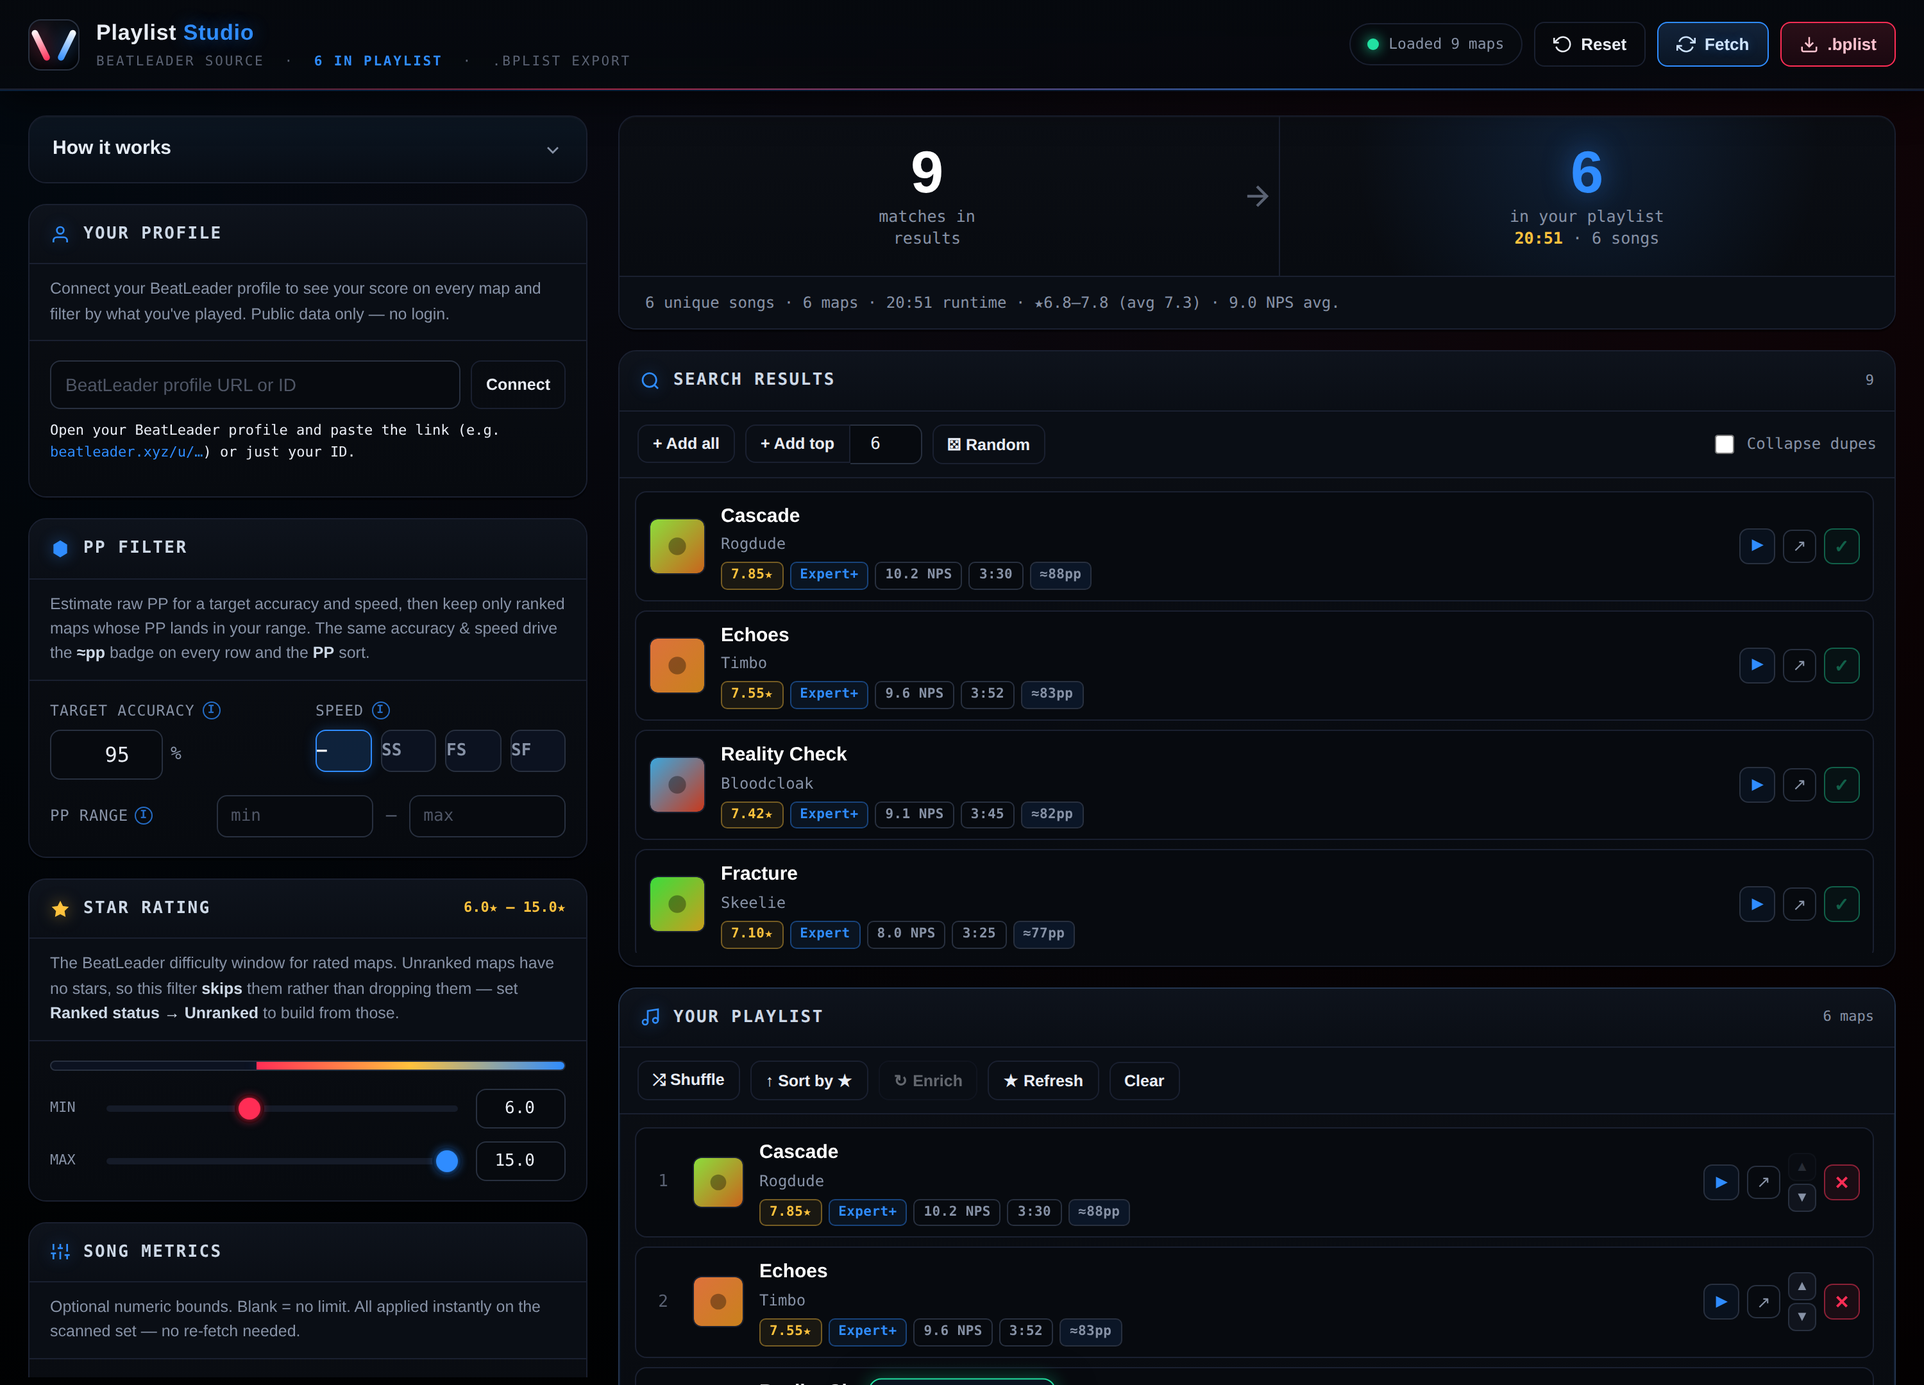
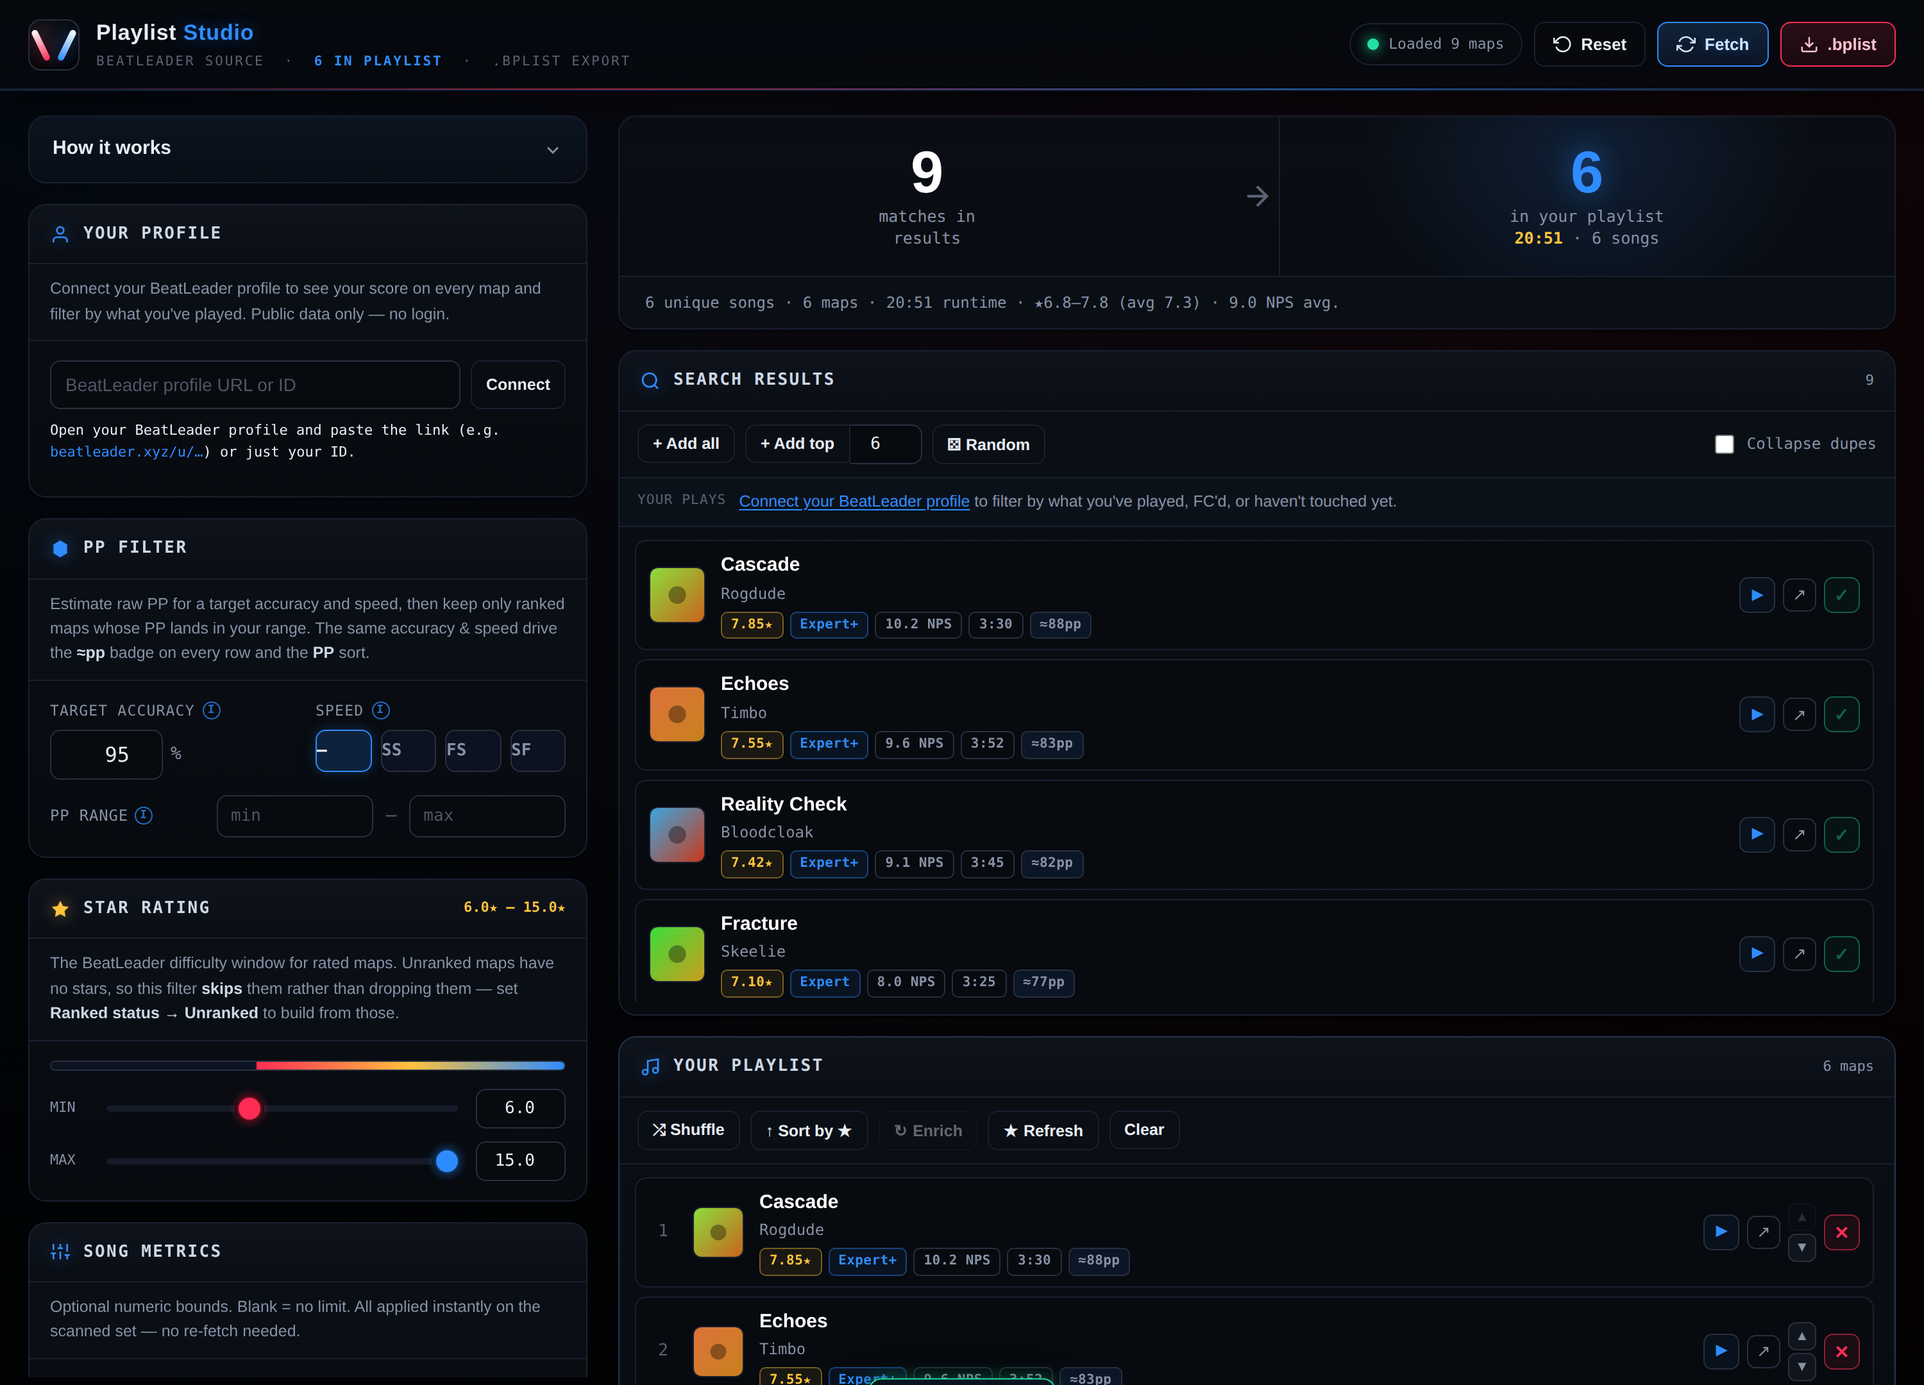
Made UI easier to use.

diff --git a/index.html b/index.html
@@ -447,6 +447,25 @@ select{cursor:pointer;appearance:none;
 .addtop input{width:56px;flex:none;padding:7px 8px;font-family:var(--mono);font-size:13px;text-align:center;border-top-left-radius:0;border-bottom-left-radius:0;border-left:none;}
 .mini-switch{display:inline-flex;align-items:center;gap:7px;cursor:pointer;font-size:12px;color:var(--muted);font-family:var(--mono);margin-left:auto;user-select:none;}
 .mini-switch input{width:15px;height:15px;accent-color:var(--blue);}
+/* Play-history filter bar (lives at the results, where people look) */
+.play-bar{display:flex;align-items:center;gap:10px;flex-wrap:wrap;padding:10px 14px;border-bottom:1px solid var(--border);background:#0b1119;}
+.play-bar-lbl{font-family:var(--mono);font-size:10.5px;letter-spacing:.6px;text-transform:uppercase;color:var(--muted-2);flex:none;}
+.play-chips{display:flex;gap:6px;flex-wrap:wrap;}
+.play-chip{font-family:var(--mono);font-size:12px;color:var(--muted);background:#0c1220;border:1px solid var(--border-2);border-radius:7px;padding:5px 11px;cursor:pointer;transition:.13s;}
+.play-chip:hover{border-color:var(--blue);color:#fff;}
+.play-chip.active{background:rgba(47,140,255,.18);border-color:var(--blue);color:#fff;box-shadow:0 0 9px rgba(47,140,255,.22);}
+.play-bar-hint{font-size:12.5px;color:var(--muted);line-height:1.4;}
+.linklike{background:none;border:none;color:var(--blue);cursor:pointer;font:inherit;padding:0;text-decoration:underline;text-underline-offset:2px;}
+.linklike:hover{color:#fff;}
+.play-bar.connected .play-bar-hint{display:none;}
+.play-bar:not(.connected) .play-chips{display:none;}
+/* Maps-to-scan quick picks */
+.scan-chips{display:flex;gap:6px;flex-wrap:wrap;margin-top:10px;}
+.scan-chips button{font-family:var(--mono);font-size:12px;color:var(--muted);background:#0c1220;border:1px solid var(--border-2);border-radius:6px;padding:5px 10px;cursor:pointer;transition:.13s;}
+.scan-chips button:hover{border-color:var(--blue);color:#fff;}
+.scan-chips button.active{background:rgba(47,140,255,.16);border-color:var(--blue);color:#fff;}
+.scan-hint{margin:8px 0 0;font-size:11.5px;color:var(--muted-2);line-height:1.45;min-height:1px;}
+.scan-hint.warn{color:var(--amber);}
 
 /* ---------- Rows (results + basket) ---------- */
 .list-body{padding:10px 12px;}
@@ -777,9 +796,18 @@ a.credit .c3{font-family:var(--mono);font-size:9.5px;color:var(--red);}
               <option value="desc" selected>High → Low</option>
               <option value="asc">Low → High</option>
             </select></div>
-          <div class="field"><label class="field-label">Max maps to scan <span class="info" data-tip="How many maps to pull from BeatLeader before filtering in your browser. Higher = more thorough but more API pages (slower). 300 is a good default; raise it for wide star ranges.">i</span></label>
-            <input type="number" id="fMaxScan" min="20" max="5000" step="20" value="300" /></div>
+          <div class="field"><label class="field-label">Maps to scan <span class="info" data-tip="How many maps to pull from BeatLeader before filtering in your browser. Higher = more thorough (finds more matches, especially after filtering by your plays) but takes longer — each 100 maps is another API page. 300 is a fast default; go bigger for wide searches or 'unplayed' hunts.">i</span></label>
+            <input type="number" id="fMaxScan" min="20" max="20000" step="20" value="300" /></div>
         </div>
+        <div class="scan-chips" id="scanChips">
+          <button type="button" data-scan="300">300</button>
+          <button type="button" data-scan="1000">1k</button>
+          <button type="button" data-scan="2500">2.5k</button>
+          <button type="button" data-scan="5000">5k</button>
+          <button type="button" data-scan="10000">10k</button>
+          <button type="button" data-scan="20000">Max</button>
+        </div>
+        <p class="scan-hint" id="scanHint"></p>
 
         <div class="divider"></div>
         <div class="field"><label class="field-label">Connection <span class="info" data-tip="BeatLeader blocks direct browser requests (no CORS). Auto tries a direct call first (~4s), then races a pool of relays. Relay skips straight to the race. Direct only works if you host this on a BeatLeader-allowlisted origin. Dead/slow relays are dropped automatically.">i</span></label>
@@ -852,6 +880,18 @@ a.credit .c3{font-family:var(--mono);font-size:9.5px;color:var(--red);}
         </div>
         <button class="ghost sm" id="addRandomBtn" disabled title="Add a random selection from results (uses the number in Add top)">⚄ Random</button>
         <label class="mini-switch" title="Show only one entry per song (hide duplicate difficulties)"><input type="checkbox" id="collapseSongs" /><span>Collapse dupes</span></label>
+      </div>
+      <div class="play-bar" id="playFilterBar">
+        <span class="play-bar-lbl">Your plays</span>
+        <div class="play-chips" id="playChips">
+          <button type="button" class="play-chip active" data-ps="any">All</button>
+          <button type="button" class="play-chip" data-ps="unplayed" title="Only maps you haven't played yet">Unplayed</button>
+          <button type="button" class="play-chip" data-ps="played" title="Only maps you've played">Played</button>
+          <button type="button" class="play-chip" data-ps="fc" title="Only maps you've full-combo'd">FC'd</button>
+          <button type="button" class="play-chip" data-ps="nofc" title="Played but not full-combo'd">Not FC</button>
+          <button type="button" class="play-chip" data-ps="nearfc" title="Played, no FC, but you were close">Near-FC</button>
+        </div>
+        <span class="play-bar-hint" id="playBarHint"><button type="button" class="linklike" id="playConnectJump">Connect your BeatLeader profile</button> to filter by what you've played, FC'd, or haven't touched yet.</span>
       </div>
       <div class="panel-body list-body">
         <div class="song-list" id="resultList">
@@ -1625,7 +1665,7 @@ window.PP = (function () {
    Connection: BeatLeader sends no CORS headers, so direct
    browser fetch() fails. We try direct first (Auto), then race
    a pool of relays (first valid wins, pinned for the scan),
-   with per-request timeouts. A custom/local relay is supported.
+   with per-request timeouts. A custom relay URL is supported.
    ============================================================ */
 (function () {
   'use strict';
@@ -1670,6 +1710,7 @@ window.PP = (function () {
    'previewModal','previewTitle','previewStatus','previewFrame','previewAudio','previewBeatSaver','previewViewer','previewClose','previewClose2',
    'ppCalc','ppCalcStars','ppCalcNote','ppCalcGrid','ppAccInput','ppAccChips','ppMods','ppResult','ppValue','ppBreakdown','ppReference',
    'ppPanel','ppFilterAcc','ppFilterMods','ppMin','ppMax','ppFilterState',
+   'introPanel','playFilterBar','playChips','playBarHint','playConnectJump','scanChips','scanHint',
    'toast','tipbox'
   ].forEach(function (id) { el[id] = $(id); });
 
@@ -1696,7 +1737,7 @@ window.PP = (function () {
     var mapperTerms = el.fMapper.value.split(',').map(function (m) { return m.trim().toLowerCase(); }).filter(Boolean);
     return {
       type: el.fType.value, sort: el.fSort.value, order: el.fOrder.value,
-      maxScan: clamp(num(el.fMaxScan, 300), 20, 5000),
+      maxScan: clamp(num(el.fMaxScan, 300), 20, 20000),
       starMin: clamp(num(el.starMinNum, 0), 0, 15), starMax: clamp(num(el.starMaxNum, 15), 0, 15),
       mapperTerms: mapperTerms, search: el.fSearch.value.trim(), modes: checkedValues('modeChips'),
       diffEnabled: el.diffEnable.checked, diffs: checkedValues('diffChips'),
@@ -1884,6 +1925,7 @@ window.PP = (function () {
     }
     state.filtered = out;
     if (el.ppFilterState) el.ppFilterState.textContent = ppFilterSummary();
+    renderPlayBar();
     renderAll();
     updateStale();
   }
@@ -2014,8 +2056,19 @@ window.PP = (function () {
     var rows = displayResults(), list = el.resultList;
     el.resultCount.textContent = rows.length ? rows.length + (collapseOn() && rows.length !== state.filtered.length ? ' songs' : '') : '';
     if (!rows.length) {
-      list.innerHTML = '<div class="empty"><div class="empty-ic">◇</div>' +
-        (state.raw.length ? '<p><b>No matches.</b></p><p>Loosen your filters or raise "Max maps to scan".</p>' : '<p><b>No results yet.</b></p><p>Set your filters and hit <b>Fetch from BeatLeader</b>.</p>') + '</div>';
+      var msg;
+      if (!state.raw.length) {
+        msg = '<p><b>No results yet.</b></p><p>Set your filters and hit <b>Fetch from BeatLeader</b>.</p>';
+      } else {
+        var why = [];
+        if (state.player && el.playStatus.value !== 'any') why.push('your <b>“' + playStatusLabel(el.playStatus.value) + '”</b> play filter');
+        if (num(el.ppMin, null) != null || num(el.ppMax, null) != null) why.push('your <b>PP range</b>');
+        var tail = why.length
+          ? 'Nothing in this batch matches ' + why.join(' and ') + '. Try raising <b>Maps to scan</b>' + (why.length === 1 && state.player && el.playStatus.value !== 'any' ? ' (an “unplayed” hunt often needs a bigger scan)' : '') + ', or loosen that filter.'
+          : 'Loosen your filters or raise <b>Maps to scan</b> to pull more.';
+        msg = '<p><b>No matches.</b></p><p>' + tail + '</p>';
+      }
+      list.innerHTML = '<div class="empty"><div class="empty-ic">◇</div>' + msg + '</div>';
       return;
     }
     var MAX = 400, frag = '';
@@ -2503,13 +2556,38 @@ window.PP = (function () {
   function savePlayerCache() { try { localStorage.setItem(PLAYER_KEY, JSON.stringify({ player: state.player, scores: state.scores })); } catch (e) {} }
   function loadPlayerCache() { try { var s = JSON.parse(localStorage.getItem(PLAYER_KEY) || 'null'); if (s && s.player) { state.player = s.player; state.scores = s.scores || {}; } } catch (e) {} }
   function renderProfile() {
-    if (!state.player) { el.profileConnect.hidden = false; el.profileCard.hidden = true; setProfileState(''); return; }
+    if (!state.player) { el.profileConnect.hidden = false; el.profileCard.hidden = true; setProfileState(''); renderPlayBar(); return; }
     el.profileConnect.hidden = true; el.profileCard.hidden = false;
     if (state.player.avatar) { el.pcAvatar.src = state.player.avatar; el.pcAvatar.style.display = ''; } else { el.pcAvatar.style.display = 'none'; }
     el.pcName.textContent = state.player.name;
     var n = Object.keys(state.scores).length;
     el.pcStats.textContent = '#' + (state.player.rank || '—') + ' global · ' + Math.round(state.player.pp || 0) + 'pp · ' + n + ' scores loaded';
     setProfileState(state.player.name);
+    renderPlayBar();
+  }
+  // The play-history filter surfaced at the results (connected -> chips, else a
+  // prompt to connect). Keeps the chip in sync with the profile-panel dropdown.
+  function updateScanHint() {
+    var v = clamp(num(el.fMaxScan, 300), 20, 20000);
+    Array.prototype.forEach.call(el.scanChips.querySelectorAll('button'), function (b) { b.classList.toggle('active', parseInt(b.dataset.scan, 10) === v); });
+    var pages = Math.ceil(v / PAGE_SIZE), big = v > 3000;
+    el.scanHint.textContent = '≈ ' + pages + ' API page' + (pages === 1 ? '' : 's') + (big ? ' · big scans take a while and lean on the public relays' : ' · fast');
+    el.scanHint.classList.toggle('warn', big);
+  }
+  function playStatusLabel(v) {
+    return { any: 'Any', unplayed: 'Unplayed', played: 'Played', fc: "Full-combo'd", nofc: 'Played, not FC', nearfc: 'Near-miss FC' }[v] || v;
+  }
+  function focusProfileConnect() {
+    if (el.profilePanel && el.profilePanel.scrollIntoView) el.profilePanel.scrollIntoView({ behavior: 'smooth', block: 'center' });
+    if (el.playerInput) { try { el.playerInput.focus({ preventScroll: true }); } catch (e) { el.playerInput.focus(); } }
+  }
+  function renderPlayBar() {
+    var connected = !!state.player;
+    el.playFilterBar.classList.toggle('connected', connected);
+    var ps = el.playStatus ? el.playStatus.value : 'any';
+    Array.prototype.forEach.call(el.playChips.querySelectorAll('.play-chip'), function (b) {
+      b.classList.toggle('active', b.dataset.ps === ps);
+    });
   }
   function connectPlayer() {
     var id = parsePlayerId(el.playerInput.value);
@@ -2521,7 +2599,7 @@ window.PP = (function () {
           pp: p.pp || 0, rank: p.rank || 0, countryRank: p.countryRank || 0,
           total: (p.scoreStats && p.scoreStats.totalPlayCount) || 0, ranked: (p.scoreStats && p.scoreStats.rankedPlayCount) || 0, syncedMaxTime: 0 };
         state.scores = {}; renderProfile(); savePlayerCache();
-        toast('Connected as ' + state.player.name + '. Syncing your scores…', 'ok');
+        toast('Connected as ' + state.player.name + '. Now use the "Your plays" filter above the results to hide what you\'ve played.', 'ok');
         return syncScores(false);
       })
       .catch(function () { setProfileState('Not found'); toast("Couldn't find that BeatLeader profile — check the URL or ID.", 'err'); })
@@ -2564,9 +2642,10 @@ window.PP = (function () {
     return step().then(function () {
       state.player.syncedMaxTime = newMax; el.syncBar.style.width = '100%';
       savePlayerCache(); renderProfile(); applyClientFilters();
-      toast(incremental ? (got ? 'Refreshed — ' + got + ' new/updated score' + (got === 1 ? '' : 's') + '.' : 'Already up to date.') : 'Synced ' + Object.keys(state.scores).length + ' scores.', 'ok');
+      var tot = Object.keys(state.scores).length;
+      toast(incremental ? (got ? 'Refreshed — ' + got + ' new/updated score' + (got === 1 ? '' : 's') + '.' : 'Already up to date.') : 'Synced ' + tot + ' score' + (tot === 1 ? '' : 's') + '.', 'ok');
     }).catch(function (e) {
-      toast('Score sync failed' + (e && e.message ? ' (' + e.message + ')' : '') + '. Try again, or use the local relay for big syncs.', 'err');
+      toast('Score sync failed' + (e && e.message ? ' (' + e.message + ')' : '') + '. Give it a moment and hit ⟳ Sync again.', 'err');
     }).then(function () {
       state.syncing = false; el.syncBtn.disabled = false;
       setTimeout(function () { el.syncProgress.hidden = true; el.syncBar.style.width = '0%'; }, 800);
@@ -2692,6 +2771,17 @@ window.PP = (function () {
     el.playStatus.addEventListener('change', applyClientFilters);
     el.accMax.addEventListener('input', applyClientFilters);
     document.querySelectorAll('#quickLists [data-quick]').forEach(function (btn) { btn.addEventListener('click', function () { applyQuickList(this.dataset.quick); }); });
+    // Results-side play-history chips (mirror the profile dropdown)
+    el.playChips.addEventListener('click', function (e) {
+      var b = e.target.closest('.play-chip'); if (!b) return;
+      if (!state.player) { focusProfileConnect(); return; }
+      el.playStatus.value = b.dataset.ps; if (b.dataset.ps !== 'played') el.accMax.value = '';
+      applyClientFilters();
+    });
+    el.playConnectJump.addEventListener('click', focusProfileConnect);
+    // Maps-to-scan quick picks + live hint
+    el.scanChips.addEventListener('click', function (e) { var b = e.target.closest('button[data-scan]'); if (b) { el.fMaxScan.value = b.dataset.scan; updateScanHint(); if (state.raw.length) updateStale(); } });
+    el.fMaxScan.addEventListener('input', updateScanHint);
 
     // star
     el.starMin.addEventListener('input', function () { setStar('min', parseFloat(el.starMin.value)); });
@@ -2707,7 +2797,7 @@ window.PP = (function () {
     el.useCustomImage.addEventListener('change', function () { el.customFileField.hidden = !el.useCustomImage.checked; if (!el.useCustomImage.checked) { state.usingCustom = false; updateCover(true); renderExport(); } });
     el.customImageInput.addEventListener('change', function (e) { var file = e.target.files && e.target.files[0]; if (file) handleCustomImage(file); });
 
-    initTooltips(); populatePresets(); populatePlaylists(); loadPlayerCache(); renderProfile(); refreshStarUI(); restoreSession(); updateCover(); renderAll(); setStatus('Ready', 'on');
+    initTooltips(); populatePresets(); populatePlaylists(); loadPlayerCache(); renderProfile(); refreshStarUI(); restoreSession(); updateCover(); renderAll(); updateScanHint(); setStatus('Ready', 'on');
   }
 
   document.addEventListener('DOMContentLoaded', init);

diff --git a/README.md b/README.md
@@ -21,6 +21,7 @@ Playlist Studio turns BeatLeader's live map data into curated Beat Saber playlis
 - **NPS, duration and BPM** bounds
 - **PP range** — keep only ranked maps worth a target PP at your accuracy and speed (see below)
 - **Rating-focus sort** — Stars, Tech, Acc, Pass, NPS, Duration, BPM, or **PP at your target accuracy**
+- **Adjustable scan depth** — pull anywhere from 300 up to 20,000 maps per fetch (quick-pick chips: 300 / 1k / 2.5k / 5k / 10k / Max). Bigger scans dig deeper for matches — handy for wide star ranges or "unplayed" hunts — at the cost of a longer fetch
 - Live client-side filtering: tweak a value and the match count updates instantly, no re-fetch
 - Press **Enter** in any filter to fetch; the Fetch button flags when your filters have drifted from your last pull
 
@@ -35,7 +36,8 @@ Playlist Studio turns BeatLeader's live map data into curated Beat Saber playlis
 ### Your scores & history (connect a BeatLeader profile)
 Paste your BeatLeader profile URL or ID and Playlist Studio syncs your play history — public data, no login — so you can see and build around what you've actually played:
 - **Score badges on every map** — your accuracy with a green **FC** / blue **passed** / dashed **NEW** marker and your rank
-- **Filter by your history** — not played, played, full-combo'd, played-but-not-FC, **near-miss FC**, or "only my accuracy below X%"
+- **"Your plays" filter right above the results** — one-tap chips for **All / Unplayed / Played / FC'd / Not FC / Near-FC**, so "hide everything I've already played" is a single click where you're actually looking. (Not connected yet? The bar shows a one-tap link to connect.)
+- **Filter by your history** — the same set is also in the profile panel, plus "only my accuracy below X%"
 - **One-tap smart lists** — Unplayed, Near-miss FC, Sub-90%
 - **Sort by you** — my accuracy, my rank, date I played, or improvement potential
 - **Your best in the preview** — accuracy, misses (and the would-be FC accuracy), rank, date, and a link to watch the replay
